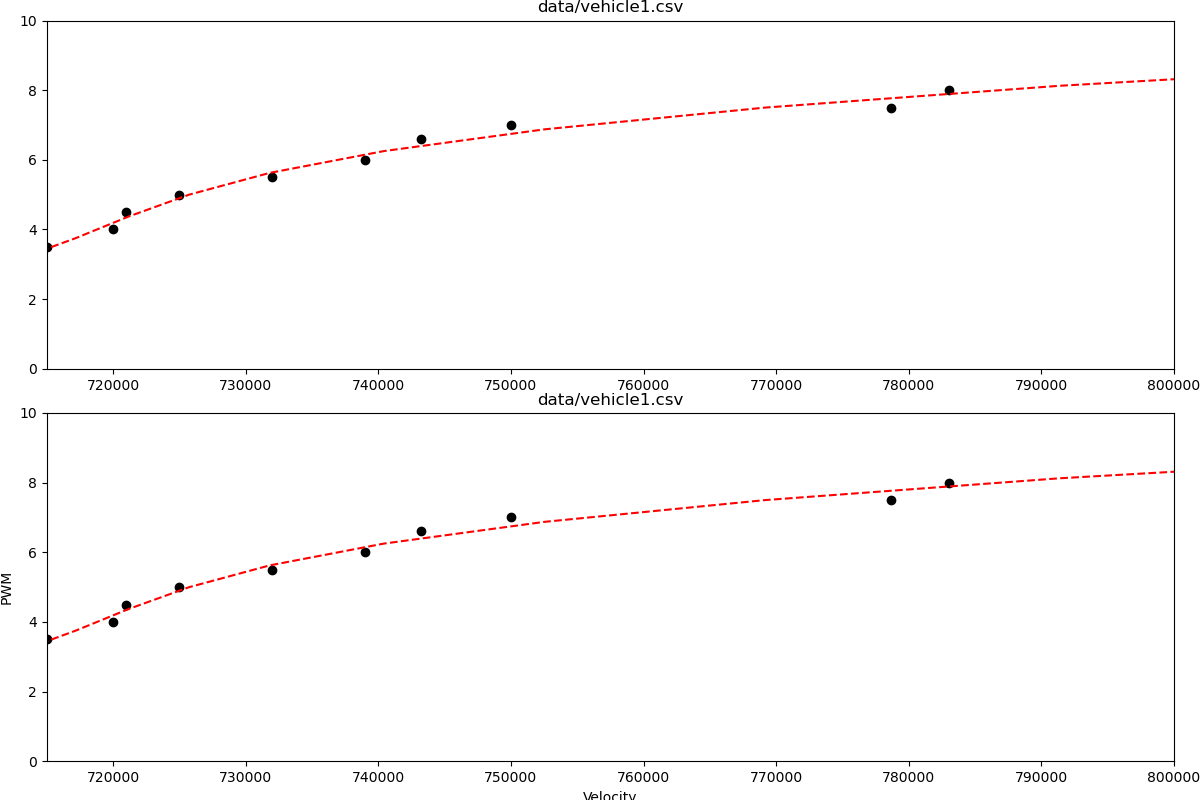
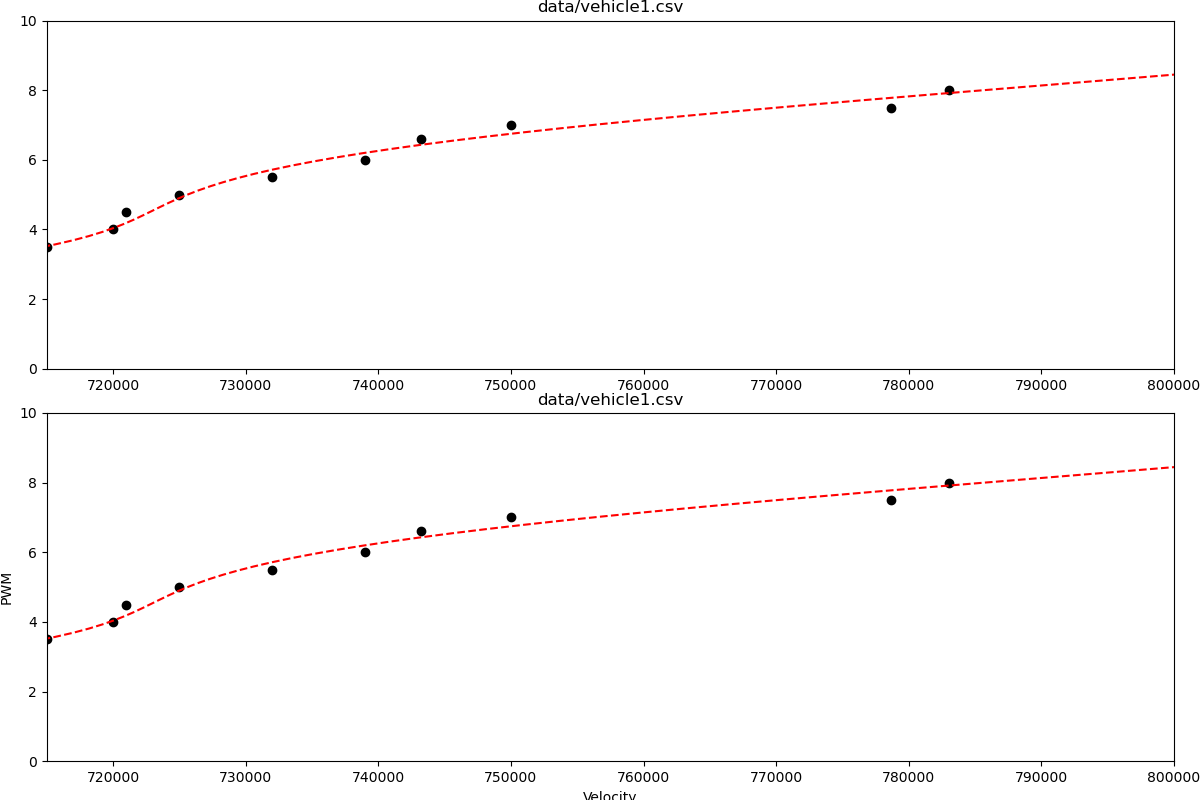
feat: move velocity mapper to its own class and clamp

diff --git a/src/rcv/nodes/bidirectional_controller.py b/src/rcv/nodes/bidirectional_controller.py
@@ -6,6 +6,7 @@ import numpy as np
 from sensor_msgs.msg import Range
 from std_msgs.msg import Int32, Float32, Bool
 
+from rcv.velocity_mapper import VelocityMapper
 from controller.state_space import BidirectionalStateSpace
 
 VEHICLE_ID_LEADER = "vehicle_0"
@@ -100,9 +101,12 @@ class BidirectionalController:
         self.__vehicle_in_front = vehicle_in_front
 
         self.__state_space = BidirectionalStateSpace()
-        self.__pwm_mapper = self.__create_velocity_pwm_mapper(
+        self.__velocity_mapper = VelocityMapper(
             rospy.get_param("VELOCITY_PWM_MAP_FILE_PATH"),
-            rospy.get_param("VELOCITY_PWM_MAP_POLYFIT_DEGREE"))
+            rospy.get_param("VELOCITY_PWM_MAP_POLYFIT_DEGREE"),
+            self.__idle,
+            self.__min_forward,
+            self.__max_forward)
 
         self.__pwm_publisher = rospy.Publisher(
             f"{self.__id}/pwm",
@@ -170,15 +174,6 @@ class BidirectionalController:
 
         return (vehicle_leader, vehicle_in_front, vehicle_behind)
 
-    def __create_velocity_pwm_mapper(self, map_file, polyfit_deg):
-        data = np.genfromtxt(
-            map_file,
-            delimiter=",",
-            skip_header=1,
-            names=["pwm", "velocity"])
-        z = np.polyfit(data["velocity"], data["pwm"], polyfit_deg)
-        return np.poly1d(z)
-
     def __callback_esc_calibrated(self, msg: Bool):
         """
         Callback for when the ESC has been calibrated.
@@ -220,10 +215,7 @@ class BidirectionalController:
         new_pwm = self.__idle
         if self.__has_target or not self.__stop_vehicle_if_no_target:
             desired_velocity = self.__state_space.update()
-            # TODO: Is this the desired velocity, or the change?
-            new_pwm = int(min(
-                max(self.__pwm_mapper(desired_velocity), self.__idle),
-                self.__max_forward))
+            new_pwm = self.__velocity_mapper.to_pwm(desired_velocity)
 
         self.__pwm_publisher.publish(new_pwm)
         self.__control_publisher.publish(desired_velocity)

diff --git a/src/rcv/src/rcv/velocity_mapper.py b/src/rcv/src/rcv/velocity_mapper.py
@@ -1,0 +1,41 @@
+import numpy as np
+
+class VelocityMapper:
+    def __init__(
+            self,
+            map_file: str,
+            polyfit_deg: int,
+            idle: int,
+            min_forward: int
+            max_forward: int,
+    ):
+        self.__data = np.genfromtxt(
+            map_file,
+            delimiter=",",
+            skip_header=1,
+            names=["pwm", "velocity"])
+        z = np.polyfit(
+            self.__data["velocity"], self.__data["pwm"], polyfit_deg)
+        self.__fn = np.poly1d(z)
+
+        self.__idle = idle
+        self.__max_forward = max_forward
+        self.__min_forward = min_forward
+        self.__min_velocity = np.min(self.__data["velocity"])
+        self.__max_velocity = np.max(self.__data["velocity"])
+
+    def to_pwm(self, velocity) -> int:
+        """
+        Converts a velocity into a PWM value, based on the loaded
+        Velocity PWM map. The returned PWM is bounded between
+        idle and maximum forward, and any velocities smaller or
+        larger than the mapped velocities will return these values.
+        """
+        if velocity < self.__min_velocity:
+            return self.__idle
+
+        if velocity > self.__max_velocity:
+            return self.__max_forward
+
+        return int(
+            min(max(self.__fn(velocity), self.__idle), self.__max_forward))

diff --git a/analysis/velocity_pwm_mapper/plot.py b/analysis/velocity_pwm_mapper/plot.py
@@ -3,10 +3,10 @@ import matplotlib.pyplot as plt
 
 MIN_FORWARD = 715000
 MAX_FORWARD = 800000
-STEP_SIZE = 5000
+STEP_SIZE = 1000
 MAX_VELOCITY = 10
 MIN_VELOCITY = 0
-POLYFIT_ORDER = 3
+POLYFIT_ORDER = 4
 
 plots = []
 
